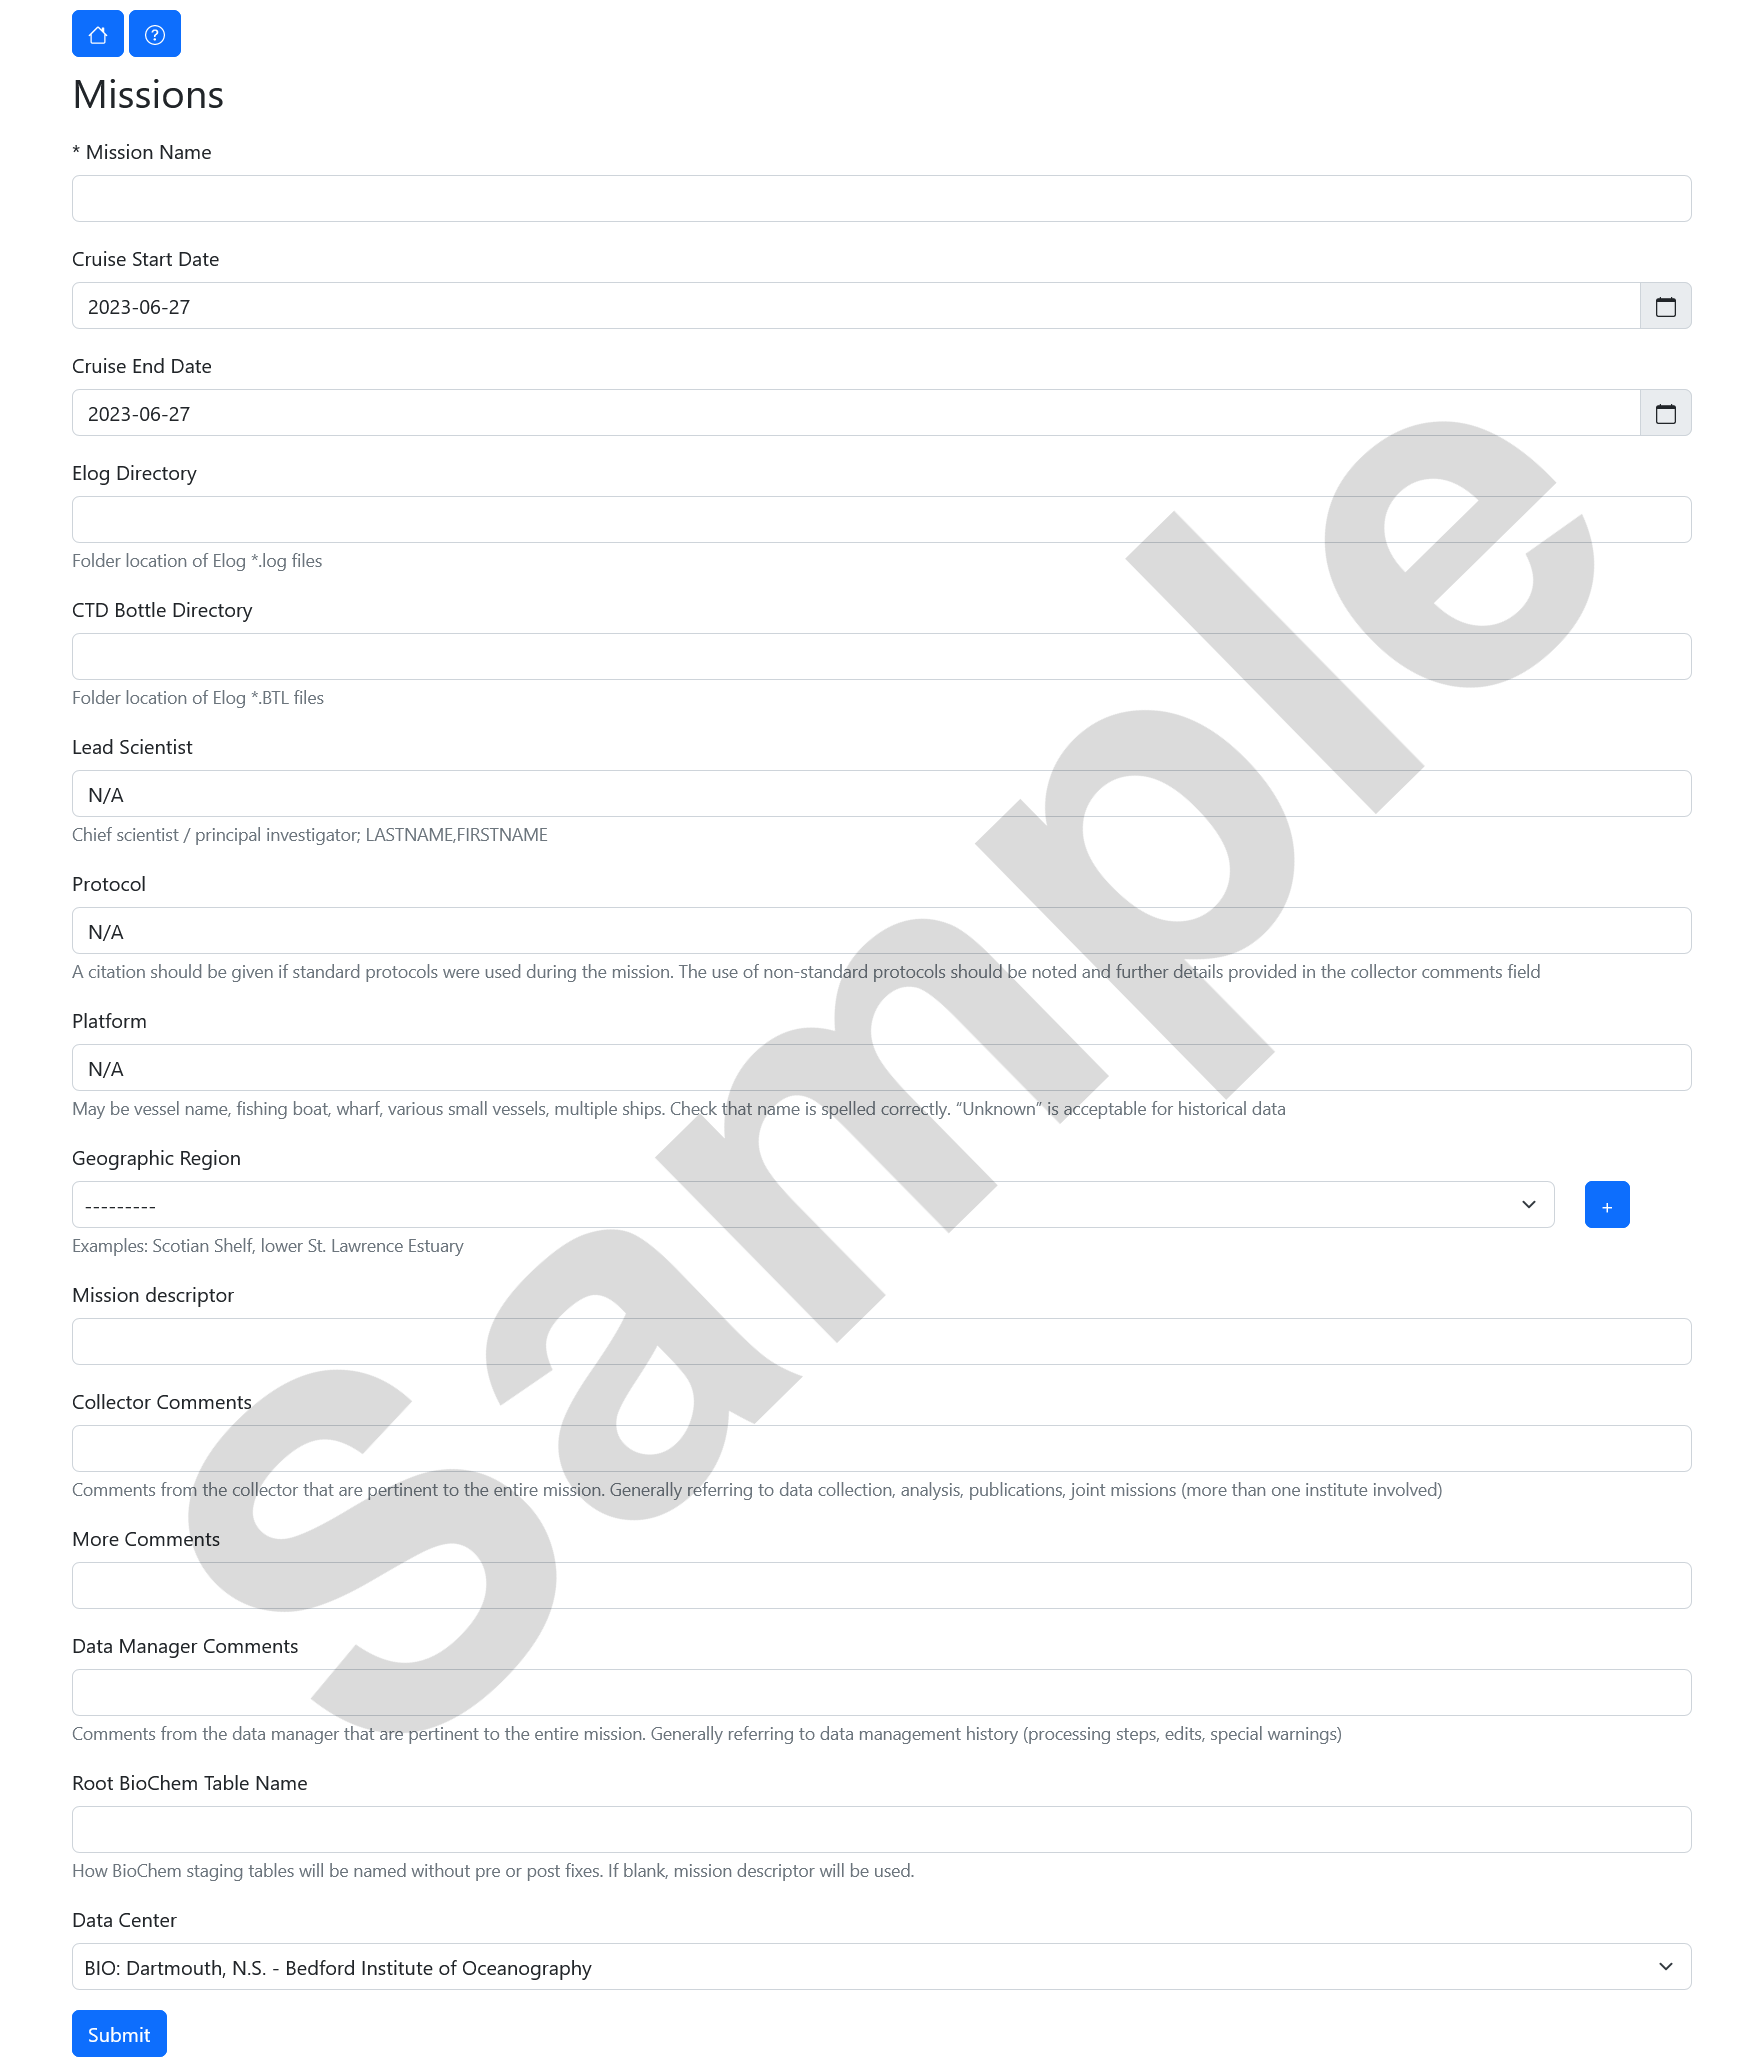
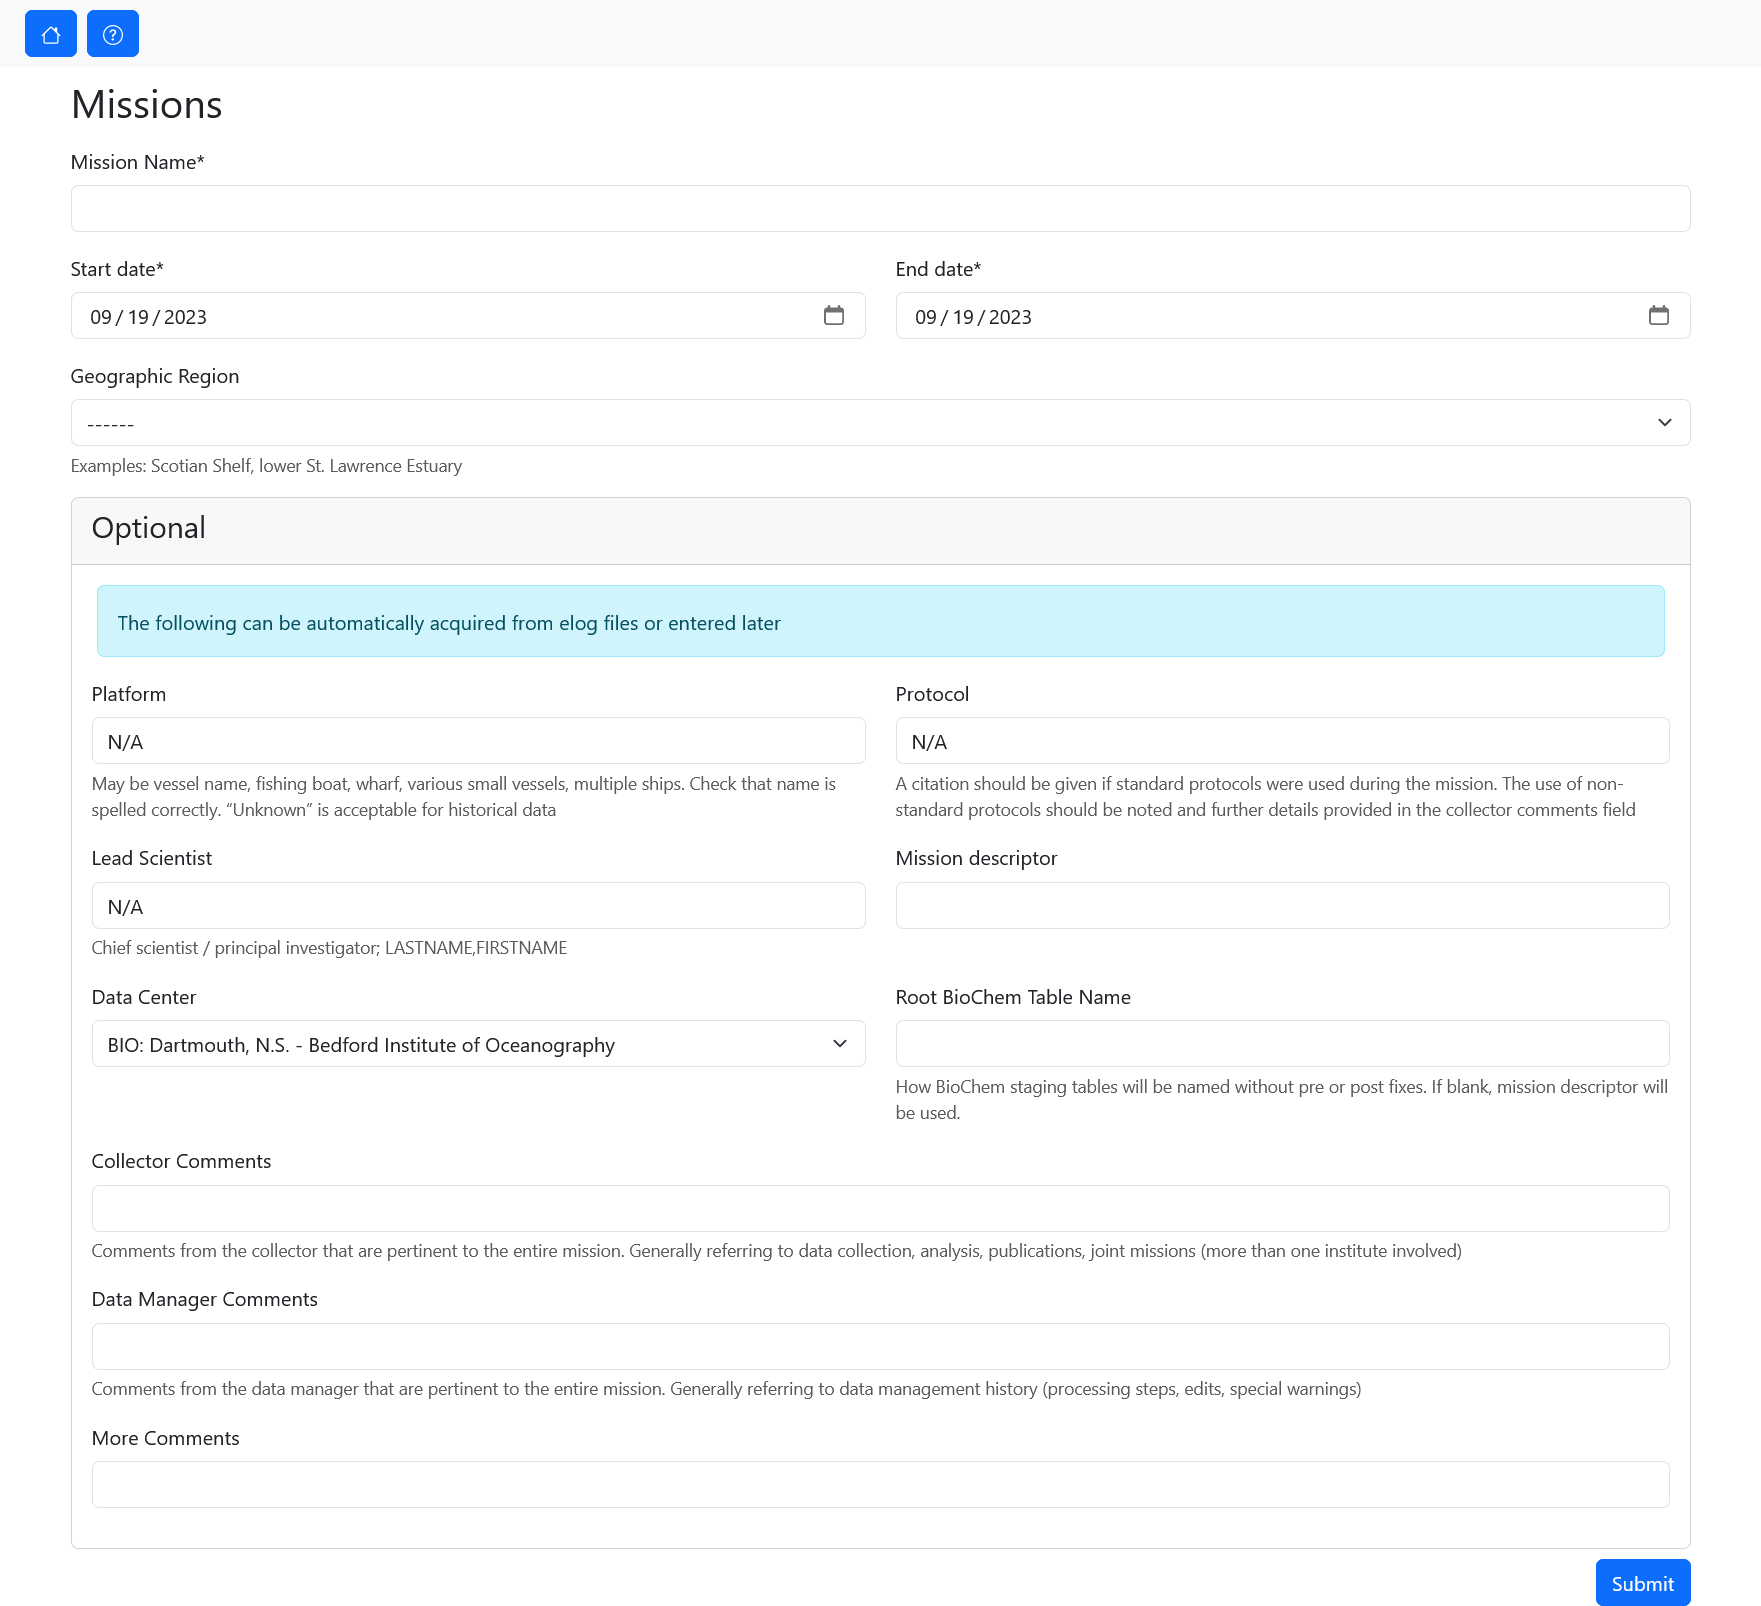
User documentation update

diff --git a/docs/templates/docs/mission_filter.html b/docs/templates/docs/mission_filter.html
@@ -48,5 +48,61 @@
             </div>
         </div>
     </section>
+
+    <section id="update_mission" class="card mb-3">
+        <div class="card-header">
+            <h3 class="card-title">{% trans 'Update Mission' %}</h3>
+        </div>
+        <div class="card-body">
+            <p>{% trans 'Allows updating properties of an existing mission ' %}<a href="{% url 'docs:new_mission_form' %}">{% trans '(see New Mission Form)'%}</a></p>
+            <div class="col">
+                <img class="img-fluid border pt-2 mb-2 border-1" src="{% static 'docs/img/mission_filter-update_mission.png' %}" />
+            </div>
+        </div>
+    </section>
+    <section id="mission_events" class="card mb-3">
+        <div class="card-header">
+            <h3 class="card-title">{% trans 'Mission Events' %}</h3>
+        </div>
+        <div class="card-body">
+            <p>{% trans 'Access the events page for a mission ' %}<a href="{% url 'docs:mission_events' %}">{% trans '(see Mission Events Page)'%}</a></p>
+            <div class="col">
+                <img class="img-fluid border pt-2 mb-2 border-1" src="{% static 'docs/img/mission_filter-mission_events.png' %}" />
+            </div>
+        </div>
+    </section>
+    <section id="mission_samples" class="card mb-3">
+        <div class="card-header">
+            <h3 class="card-title">{% trans 'Mission Samples' %}</h3>
+        </div>
+        <div class="card-body">
+            <p>{% trans 'Access the samples page for a mission ' %}<a href="{% url 'docs:mission_samples' %}">{% trans '(see Mission Samples Page)'%}</a></p>
+            <div class="col">
+                <img class="img-fluid border pt-2 mb-2 border-1" src="{% static 'docs/img/mission_filter-mission_samples.png' %}" />
+            </div>
+        </div>
+    </section>
+    <section id="mission_plankton" class="card mb-3">
+        <div class="card-header">
+            <h3 class="card-title">{% trans 'Mission Plankton' %}</h3>
+        </div>
+        <div class="card-body">
+            <p>{% trans 'To be added ' %}<a href="">{% trans '(see Mission Plankton)'%}</a></p>
+            <div class="col">
+                <img class="img-fluid border pt-2 mb-2 border-1" src="{% static 'docs/img/mission_filter-mission_plankton.png' %}" />
+            </div>
+        </div>
+    </section>
+    <section id="delete_mission" class="card mb-3">
+        <div class="card-header">
+            <h3 class="card-title">{% trans 'Delete Mission' %}</h3>
+        </div>
+        <div class="card-body">
+            <p>{% trans 'Removes the mission, be careful with this one ' %}</p>
+            <div class="col">
+                <img class="img-fluid border pt-2 mb-2 border-1" src="{% static 'docs/img/mission_filter-mission_delete.png' %}" />
+            </div>
+        </div>
+    </section>
 </div>
 {% endblock %}

diff --git a/docs/templates/docs/index.html b/docs/templates/docs/index.html
@@ -16,8 +16,9 @@
             <div class="card-body">
                 <div class="card-title"><h2>{% trans 'Table Of Contents' %}</h2></div>
                 <ul class="list-group">
-                    <li class="list-group-item"><a href="{% url 'docs:mission_filter' %}">{% trans 'Mission Filter' %}</a></li>
-                    <li class="list-group-item"><a href="{% url 'docs:new_mission_form' %}">{% trans 'New Mission Form' %}</a></li>
+                    <li class="list-group-item"><a href="{% url 'docs:mission_filter' %}">{% trans 'Mission Filter Page' %}</a> - {% trans 'Dart Landing page choose/create missions' %}</li>
+                    <li class="list-group-item"><a href="{% url 'docs:new_mission_form' %}">{% trans 'New Mission Form' %}</a> - {% trans 'Mission creation/updating form for modifying missions' %}</li>
+                    <li class="list-group-item"><a href="{% url 'docs:mission_events' %}">{% trans 'Mission Events Page' %}</a> - {% trans 'Load Elog events or create events manually' %}</li>
                 </ul>
             </div>
         </div>

diff --git a/docs/templates/docs/new_mission_form.html b/docs/templates/docs/new_mission_form.html
@@ -26,5 +26,16 @@
             </div>
         </div>
     </section>
+    <section id="mission_name" class="card mb-3">
+        <div class="card-header">
+            <h3 class="card-title">{% trans 'Mission Dates' %}</h3>
+        </div>
+        <div class="card-body">
+            <p>{% trans 'The Mission Start/End date fields are used to specify the beginning and end of a mission and are used during validation to ensure events occurred during the specified time. The format of the date fields depends on the format specified by the operating system and web browser of the users computer, not the dart server computer. Although they can be the same machine. These values can be changed later on and will trigger a revalidation of loaded events' %}</p>
+            <div class="col">
+                <img class="img-fluid border pt-2 mb-2 border-1" src="{% static 'docs/img/new_mission_form-mission_start_end_date.png' %}" />
+            </div>
+        </div>
+    </section>
 </div>
 {% endblock %}

diff --git a/docs/templates/docs/mission_events.html b/docs/templates/docs/mission_events.html
@@ -1,0 +1,20 @@
+{% extends 'base.html' %}
+{% load bootstrap_icons %}
+{% load bootstrap5 %}
+{% load static %}
+{% load i18n %}
+
+
+{% block content %}
+<div class="container-fluid">
+    <section id="top" class="card mb-3">
+        <div class="card-body">
+            <p>{% trans 'The Mission Events page is where events can either be created manually or can be bulk loaded from elog files. Typically DART is interested in two main types of events, CTD and Nets. CTD Events provide date/time, position and sample I.Ds that water samples taken from bottles on the CTD or Net are linked to' %}</p>
+            <div class="col">
+                <img class="img-fluid border pt-2 mb-2 border-1" src="{% static 'docs/img/mission_event.png' %}" />
+            </div>
+        </div>
+    </section>
+
+</div>
+{% endblock %}

diff --git a/docs/templates/docs/mission_samples.html b/docs/templates/docs/mission_samples.html
@@ -1,0 +1,20 @@
+{% extends 'base.html' %}
+{% load bootstrap_icons %}
+{% load bootstrap5 %}
+{% load static %}
+{% load i18n %}
+
+
+{% block content %}
+<div class="container-fluid">
+    <section id="top" class="card mb-3">
+        <div class="card-body">
+            <p>{% trans 'The new mission form allows the required, and many optional, values required for adding a mission to DART. The main required fields are Mission Name, Start Cruise Date, End Cruise Date and Data Center. The last three have usable default values' %}</p>
+            <div class="col">
+                <img class="img-fluid border pt-2 mb-2 border-1" src="{% static 'docs/img/new_mission_form.png' %}" />
+            </div>
+        </div>
+    </section>
+
+</div>
+{% endblock %}

diff --git a/docs/views.py b/docs/views.py
@@ -11,10 +11,20 @@ class Home(GenericViewMixin, TemplateView):
 
 
 class MissionFilter(GenericViewMixin, TemplateView):
-    page_title = _("Mission Filter")
+    page_title = _("Mission Filter Page")
     template_name = 'docs/mission_filter.html'
 
 
 class NewMissionForm(GenericViewMixin, TemplateView):
     page_title = _("New Mission Form")
     template_name = 'docs/new_mission_form.html'
+
+
+class MissionEvents(GenericViewMixin, TemplateView):
+    page_title = _("Mission Events Page")
+    template_name = 'docs/mission_events.html'
+
+
+class MissionSamples(GenericViewMixin, TemplateView):
+    page_title = _("Mission Samples Page")
+    template_name = 'docs/mission_samples.html'

diff --git a/docs/urls.py b/docs/urls.py
@@ -9,4 +9,6 @@ urlpatterns = [
     path('', views.Home.as_view(), name="index"),
     path('mission/mission_filter', views.MissionFilter.as_view(), name="mission_filter"),
     path('mission/new_mission_form', views.NewMissionForm.as_view(), name="new_mission_form"),
+    path('mission/mission_events', views.MissionEvents.as_view(), name="mission_events"),
+    path('mission/mission_samples', views.MissionSamples.as_view(), name="mission_samples"),
 ]
